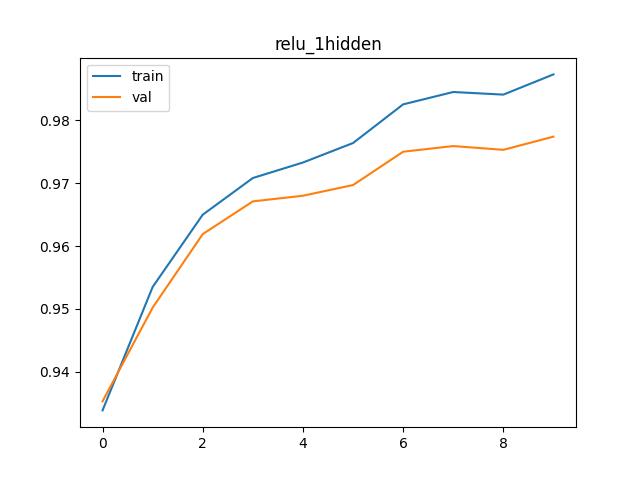
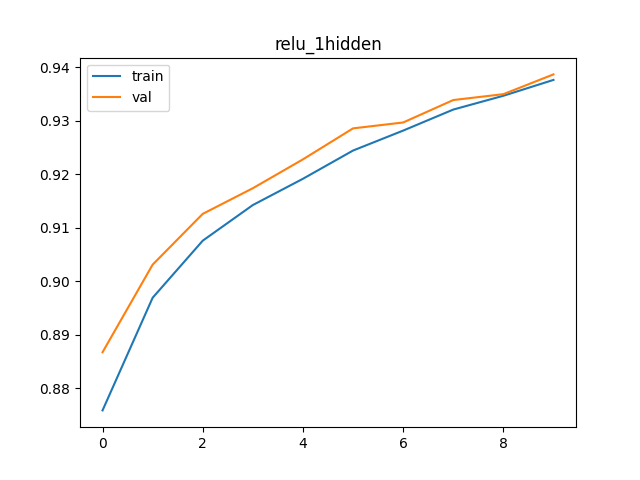
Refactor code structure for improved readability and maintainability

diff --git a/EXP2.py b/EXP2.py
@@ -14,7 +14,7 @@ import time
 np.random.seed(42)
 
  
-# 1. LOAD DATASET (Torch only for loading)
+# 1. LOAD DATASET  
  
 
 train_dataset = torchvision.datasets.MNIST(
@@ -203,7 +203,7 @@ class NeuralNetwork:
             images = images.cpu().numpy().reshape(images.shape[0], -1)
             labels = labels.cpu().numpy()
 
-            # ToTensor() already normalizes to [0,1]
+            
 
             y = one_hot(labels)
 
@@ -246,7 +246,7 @@ def train_model(config, exp_name):
             images = images.cpu().numpy().reshape(images.shape[0], -1)
             labels = labels.cpu().numpy()
 
-            # Note: ToTensor() already normalizes to [0,1], no need to divide by 255
+            
             y = one_hot(labels)
 
             preds = model.forward(images)
@@ -287,7 +287,7 @@ experiments = [
         "name": "relu_1hidden",
         "layers": [784, 128, 10],
         "activation": "relu",
-        "lr": 0.1,
+        "lr": 0.01,
         "epochs": 10
     },
 
@@ -295,7 +295,7 @@ experiments = [
         "name": "relu_2hidden",
         "layers": [784, 256, 128, 10],
         "activation": "relu",
-        "lr": 0.1,
+        "lr": 0.01,
         "epochs": 10
     },
 
@@ -303,7 +303,15 @@ experiments = [
         "name": "tanh_2hidden",
         "layers": [784, 256, 128, 10],
         "activation": "tanh",
-        "lr": 0.1,
+        "lr": 0.01,
+        "epochs": 10
+    },
+
+    {
+        "name": "sigmoid_2hidden",
+        "layers": [784, 256, 128, 10],
+        "activation": "sigmoid",
+        "lr": 0.01,
         "epochs": 10
     }
 ]
@@ -329,43 +337,55 @@ for name, tr, val in results:
 #Output
 
 # ===== Running relu_1hidden =====
-# Epoch 1/10 | Train Acc 0.9338 | Val Acc 0.9353 | time 6.69s
-# Epoch 2/10 | Train Acc 0.9535 | Val Acc 0.9502 | time 7.37s
-# Epoch 3/10 | Train Acc 0.9650 | Val Acc 0.9619 | time 6.55s
-# Epoch 4/10 | Train Acc 0.9708 | Val Acc 0.9671 | time 6.22s
-# Epoch 5/10 | Train Acc 0.9733 | Val Acc 0.9680 | time 5.78s
-# Epoch 6/10 | Train Acc 0.9764 | Val Acc 0.9697 | time 6.56s
-# Epoch 7/10 | Train Acc 0.9825 | Val Acc 0.9750 | time 6.40s
-# Epoch 8/10 | Train Acc 0.9845 | Val Acc 0.9759 | time 7.01s
-# Epoch 9/10 | Train Acc 0.9841 | Val Acc 0.9753 | time 7.55s
-# Epoch 10/10 | Train Acc 0.9873 | Val Acc 0.9774 | time 5.85s
+# Epoch 1/10 | Train Acc 0.8758 | Val Acc 0.8867 | time 5.96s
+# Epoch 2/10 | Train Acc 0.8969 | Val Acc 0.9031 | time 6.15s
+# Epoch 3/10 | Train Acc 0.9076 | Val Acc 0.9126 | time 5.89s
+# Epoch 4/10 | Train Acc 0.9143 | Val Acc 0.9174 | time 5.98s
+# Epoch 5/10 | Train Acc 0.9192 | Val Acc 0.9228 | time 6.47s
+# Epoch 6/10 | Train Acc 0.9244 | Val Acc 0.9286 | time 5.92s
+# Epoch 7/10 | Train Acc 0.9282 | Val Acc 0.9297 | time 5.82s
+# Epoch 8/10 | Train Acc 0.9321 | Val Acc 0.9339 | time 5.95s
+# Epoch 9/10 | Train Acc 0.9347 | Val Acc 0.9350 | time 5.80s
+# Epoch 10/10 | Train Acc 0.9377 | Val Acc 0.9387 | time 5.95s
 
 # ===== Running relu_2hidden =====
-# Epoch 1/10 | Train Acc 0.9496 | Val Acc 0.9465 | time 6.48s
-# Epoch 2/10 | Train Acc 0.9712 | Val Acc 0.9660 | time 7.39s
-# Epoch 3/10 | Train Acc 0.9299 | Val Acc 0.9135 | time 6.58s
-# Epoch 4/10 | Train Acc 0.9842 | Val Acc 0.9734 | time 6.51s
-# Epoch 5/10 | Train Acc 0.9872 | Val Acc 0.9746 | time 6.52s
-# Epoch 6/10 | Train Acc 0.9860 | Val Acc 0.9719 | time 6.56s
-# Epoch 7/10 | Train Acc 0.9934 | Val Acc 0.9785 | time 7.02s
-# Epoch 8/10 | Train Acc 0.9936 | Val Acc 0.9785 | time 6.54s
-# Epoch 9/10 | Train Acc 0.9956 | Val Acc 0.9783 | time 6.51s
-# Epoch 10/10 | Train Acc 0.9975 | Val Acc 0.9801 | time 7.25s
+# Epoch 1/10 | Train Acc 0.8940 | Val Acc 0.8976 | time 6.38s
+# Epoch 2/10 | Train Acc 0.9117 | Val Acc 0.9120 | time 6.26s
+# Epoch 3/10 | Train Acc 0.9244 | Val Acc 0.9228 | time 6.32s
+# Epoch 4/10 | Train Acc 0.9333 | Val Acc 0.9326 | time 6.32s
+# Epoch 5/10 | Train Acc 0.9396 | Val Acc 0.9391 | time 6.39s
+# Epoch 6/10 | Train Acc 0.9443 | Val Acc 0.9426 | time 6.26s
+# Epoch 7/10 | Train Acc 0.9489 | Val Acc 0.9473 | time 6.30s
+# Epoch 8/10 | Train Acc 0.9527 | Val Acc 0.9494 | time 6.31s
+# Epoch 9/10 | Train Acc 0.9558 | Val Acc 0.9526 | time 6.41s
+# Epoch 10/10 | Train Acc 0.9581 | Val Acc 0.9539 | time 6.41s
 
 # ===== Running tanh_2hidden =====
-# Epoch 1/10 | Train Acc 0.9384 | Val Acc 0.9338 | time 6.89s
-# Epoch 2/10 | Train Acc 0.9551 | Val Acc 0.9530 | time 7.18s
-# Epoch 3/10 | Train Acc 0.9708 | Val Acc 0.9625 | time 7.03s
-# Epoch 4/10 | Train Acc 0.9775 | Val Acc 0.9689 | time 7.12s
-# Epoch 5/10 | Train Acc 0.9802 | Val Acc 0.9700 | time 8.36s
-# Epoch 6/10 | Train Acc 0.9823 | Val Acc 0.9725 | time 6.75s
-# Epoch 7/10 | Train Acc 0.9874 | Val Acc 0.9744 | time 6.66s
-# Epoch 8/10 | Train Acc 0.9891 | Val Acc 0.9752 | time 6.74s
-# Epoch 9/10 | Train Acc 0.9863 | Val Acc 0.9734 | time 6.71s
-# Epoch 10/10 | Train Acc 0.9920 | Val Acc 0.9768 | time 6.72s
+# Epoch 1/10 | Train Acc 0.8924 | Val Acc 0.8968 | time 6.68s
+# Epoch 2/10 | Train Acc 0.9102 | Val Acc 0.9141 | time 6.79s
+# Epoch 3/10 | Train Acc 0.9184 | Val Acc 0.9196 | time 6.70s
+# Epoch 4/10 | Train Acc 0.9249 | Val Acc 0.9273 | time 6.60s
+# Epoch 5/10 | Train Acc 0.9304 | Val Acc 0.9303 | time 6.51s
+# Epoch 6/10 | Train Acc 0.9353 | Val Acc 0.9348 | time 6.50s
+# Epoch 7/10 | Train Acc 0.9392 | Val Acc 0.9384 | time 6.52s
+# Epoch 8/10 | Train Acc 0.9421 | Val Acc 0.9396 | time 6.50s
+# Epoch 9/10 | Train Acc 0.9448 | Val Acc 0.9416 | time 6.58s
+# Epoch 10/10 | Train Acc 0.9478 | Val Acc 0.9446 | time 6.61s
+
+# ===== Running sigmoid_2hidden =====
+# Epoch 1/10 | Train Acc 0.4866 | Val Acc 0.5108 | time 7.00s
+# Epoch 2/10 | Train Acc 0.6584 | Val Acc 0.6730 | time 6.98s
+# Epoch 3/10 | Train Acc 0.7424 | Val Acc 0.7521 | time 7.09s
+# Epoch 4/10 | Train Acc 0.7871 | Val Acc 0.7908 | time 7.13s
+# Epoch 5/10 | Train Acc 0.8094 | Val Acc 0.8118 | time 7.09s
+# Epoch 6/10 | Train Acc 0.8309 | Val Acc 0.8337 | time 7.02s
+# Epoch 7/10 | Train Acc 0.8465 | Val Acc 0.8479 | time 6.99s
+# Epoch 8/10 | Train Acc 0.8556 | Val Acc 0.8593 | time 6.96s
+# Epoch 9/10 | Train Acc 0.8638 | Val Acc 0.8663 | time 7.20s
+# Epoch 10/10 | Train Acc 0.8710 | Val Acc 0.8745 | time 7.25s
 
 # ======= FINAL RESULTS =======
-# relu_1hidden -> Train:0.9873  Val:0.9774
-# relu_2hidden -> Train:0.9975  Val:0.9801
-# tanh_2hidden -> Train:0.9920  Val:0.9768
-
+# relu_1hidden -> Train:0.9377  Val:0.9387
+# relu_2hidden -> Train:0.9581  Val:0.9539
+# tanh_2hidden -> Train:0.9478  Val:0.9446
+# sigmoid_2hidden -> Train:0.8710  Val:0.8745
